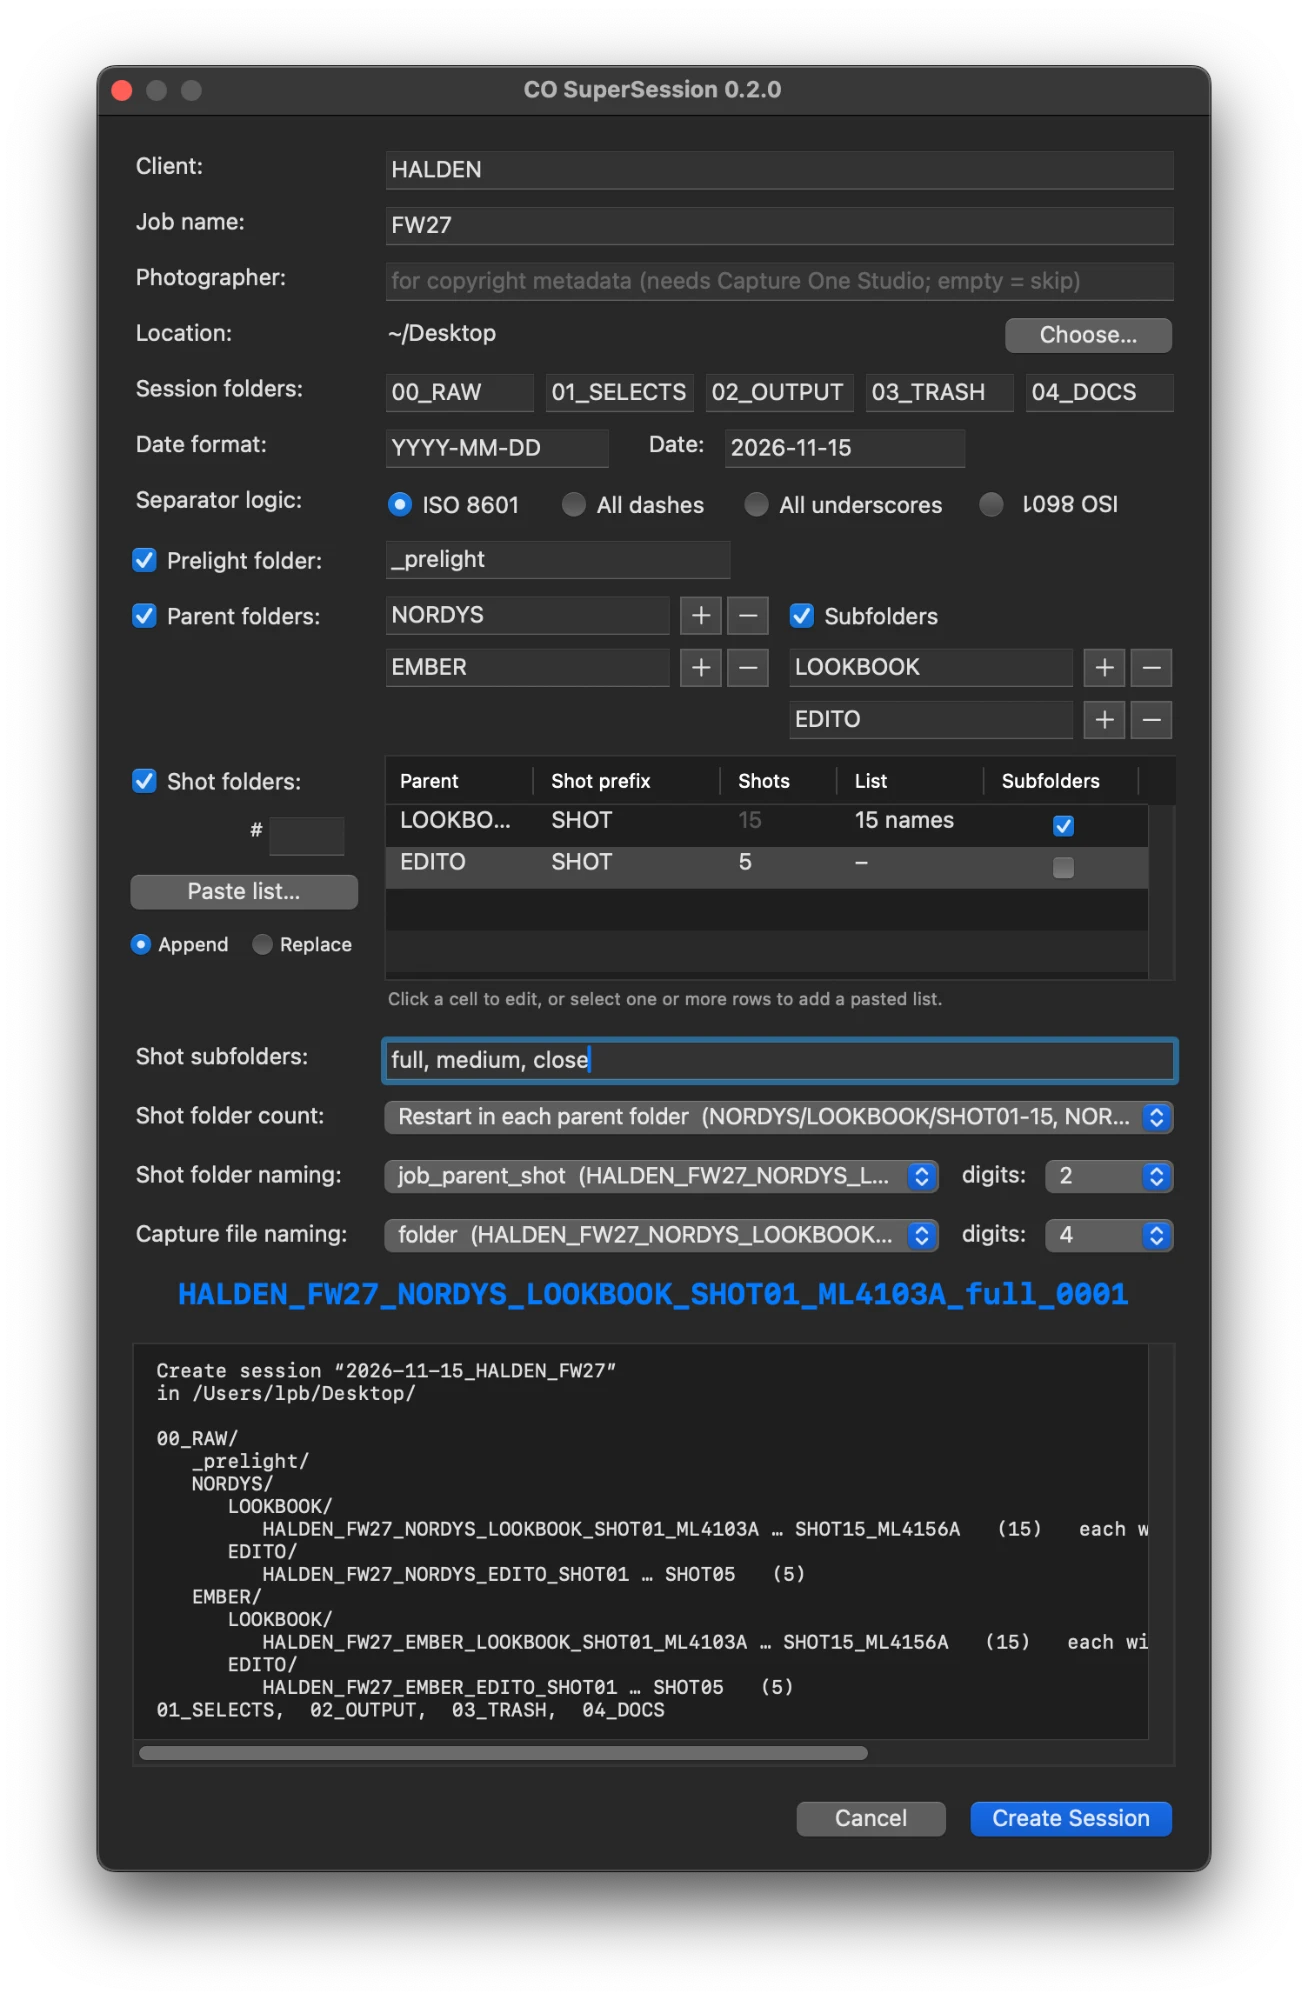
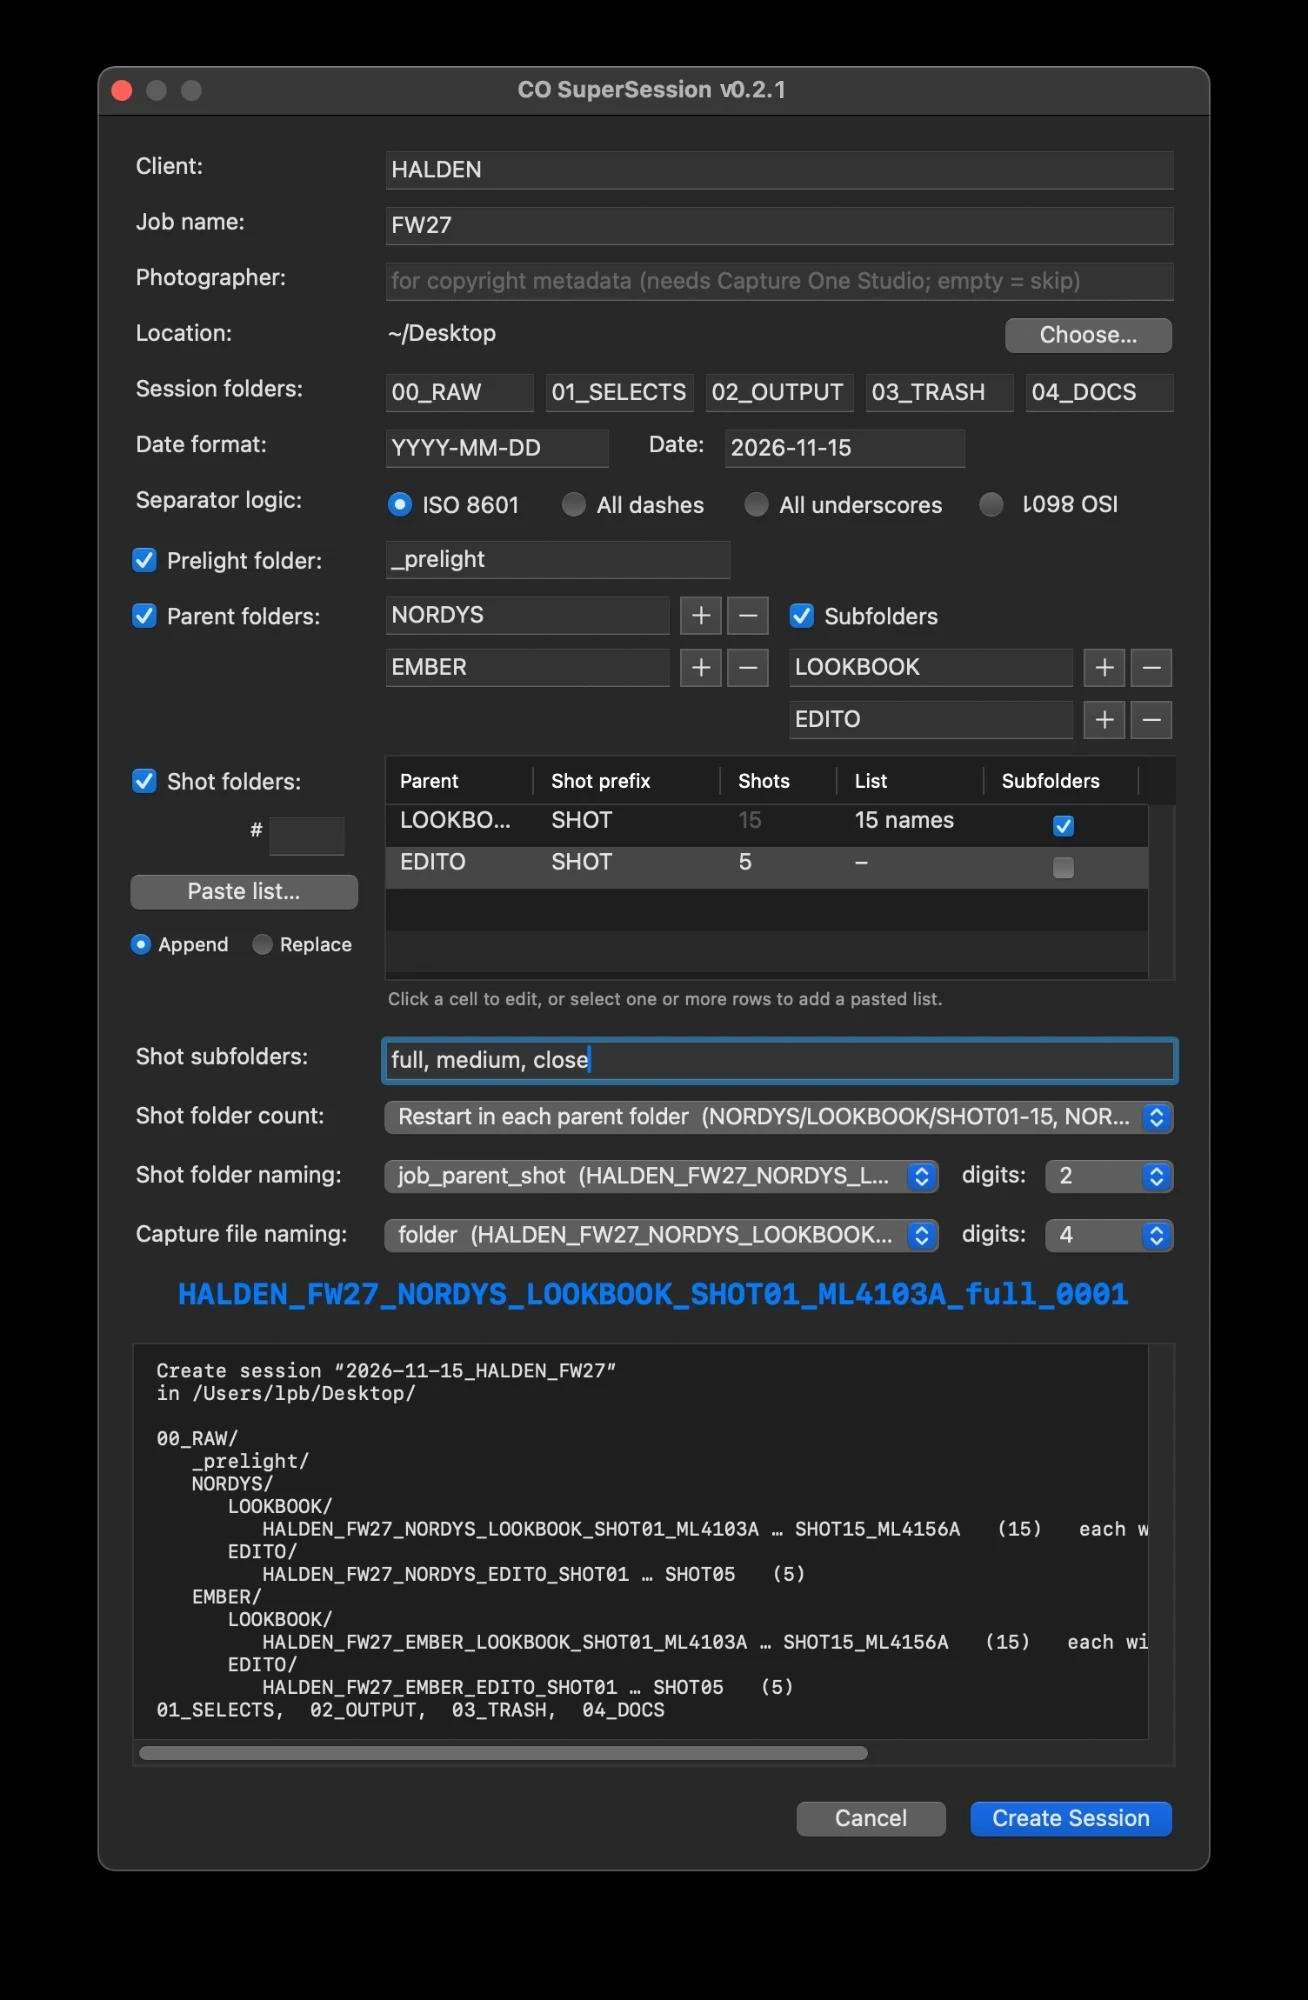
Show v prefix on version in title, changelog, release and screenshot

Changed region(s): [[0.0, 0.0, 1.0, 1.0]]

diff --git a/CHANGELOG.md b/CHANGELOG.md
@@ -2,7 +2,7 @@
 
 All notable changes to CO SuperSession are listed here. Versions follow [Semantic Versioning](https://semver.org).
 
-## 0.2.1 – 2026-11-15
+## v0.2.1 – 2026-11-15
 
 - Renamed to CO SuperSession (script file, window title and release zip). When updating, move the old CO Super Session.scpt to the Bin
 - Shot folders off with subfolders: Shot folder naming now offers parent_subfolder (KV1/KV1_main), so the parent folder can appear in capture file names
@@ -17,14 +17,14 @@ All notable changes to CO SuperSession are listed here. Versions follow [Semanti
 - Fixed: the chosen file naming, shot folder naming, numbering and shot count are remembered even when a session couldn't use them
 - Errors while building or updating the window are now shown instead of failing silently
 
-## 0.2.0 – 2026-11-15
+## v0.2.0 – 2026-11-15
 
 - Paste list: paste folder names (one per line) for the selected shot folder rows (⌘A for all), from the Paste list button or the new List column
 - Shot folder table columns size themselves to fit their content
 - Append / Replace: Append gives SHOT01_name, Replace uses the pasted names as the shot folders (folder naming still adds job, date and parent)
 - Summary shortens shot ranges again when pasted names follow the number, keeping the prefix (… SHOT05_pool)
 
-## 0.1.0 – 2026-11-15
+## v0.1.0 – 2026-11-15
 
 First release of the Capture One 16 rewrite.
 
